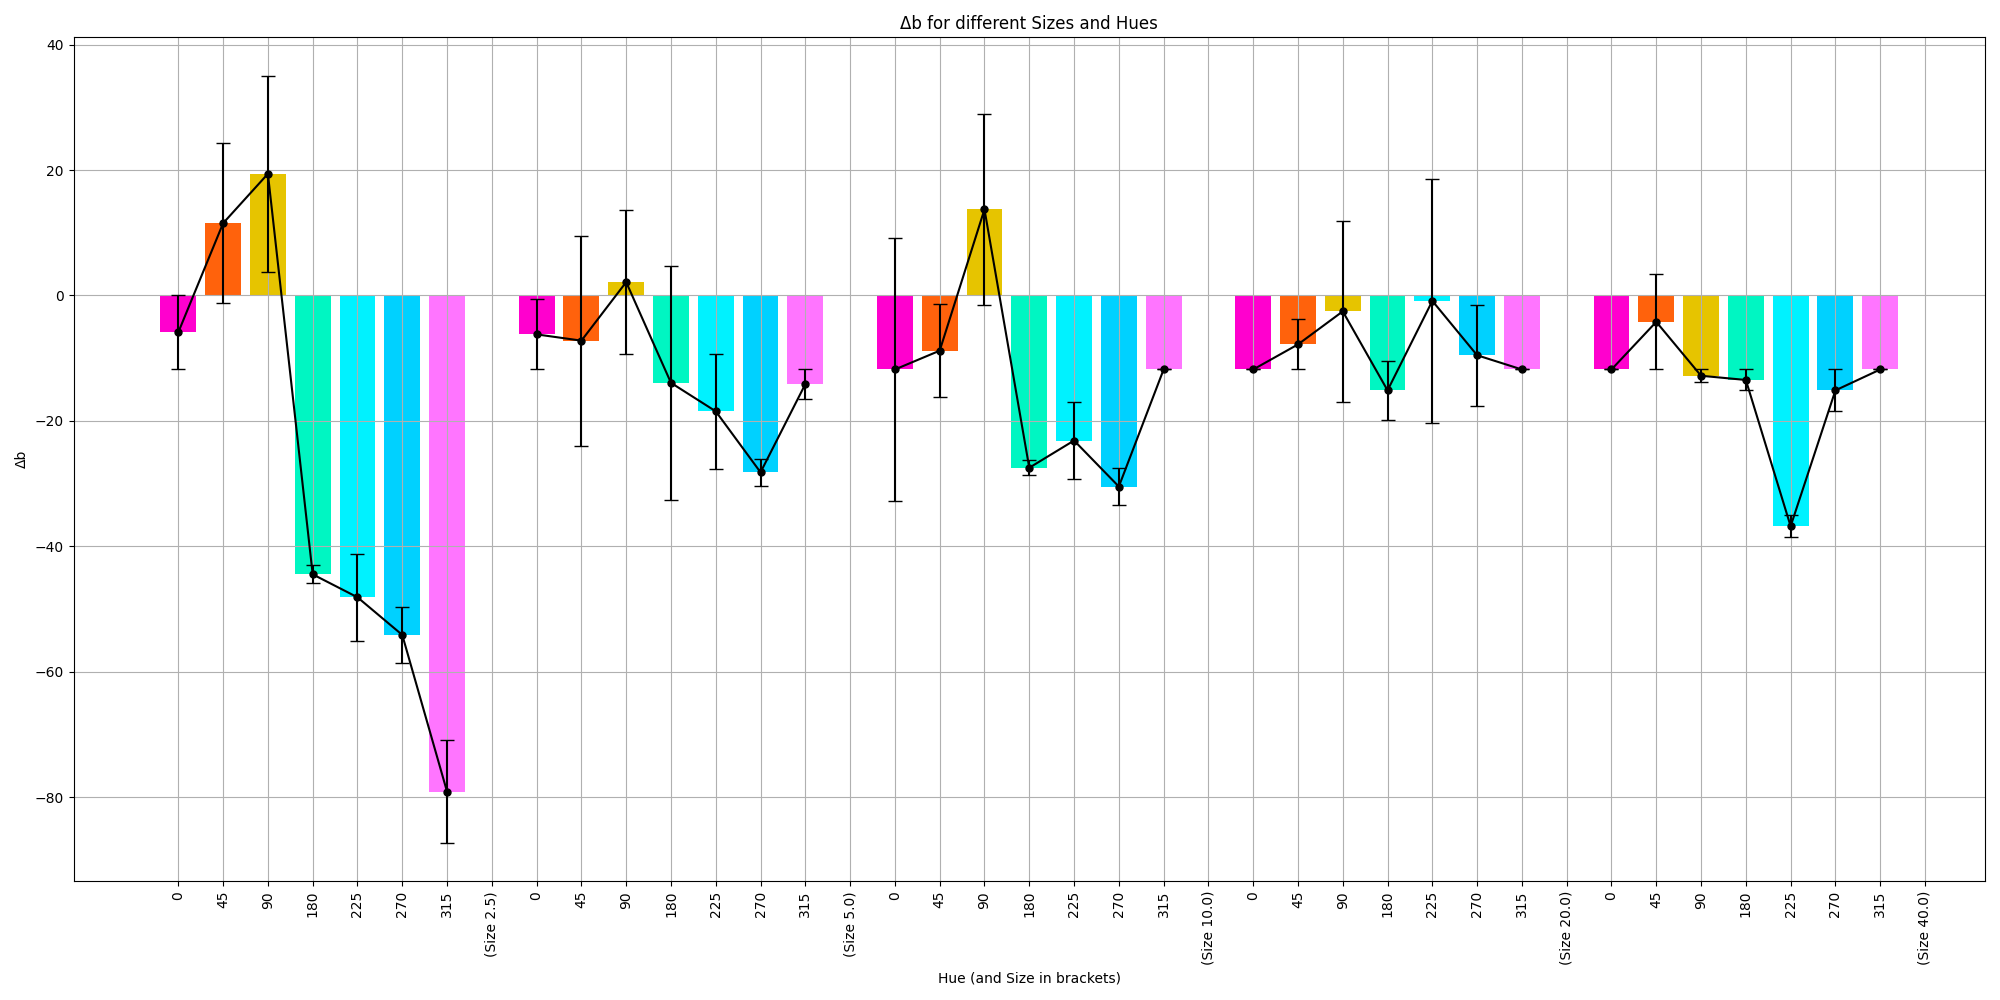
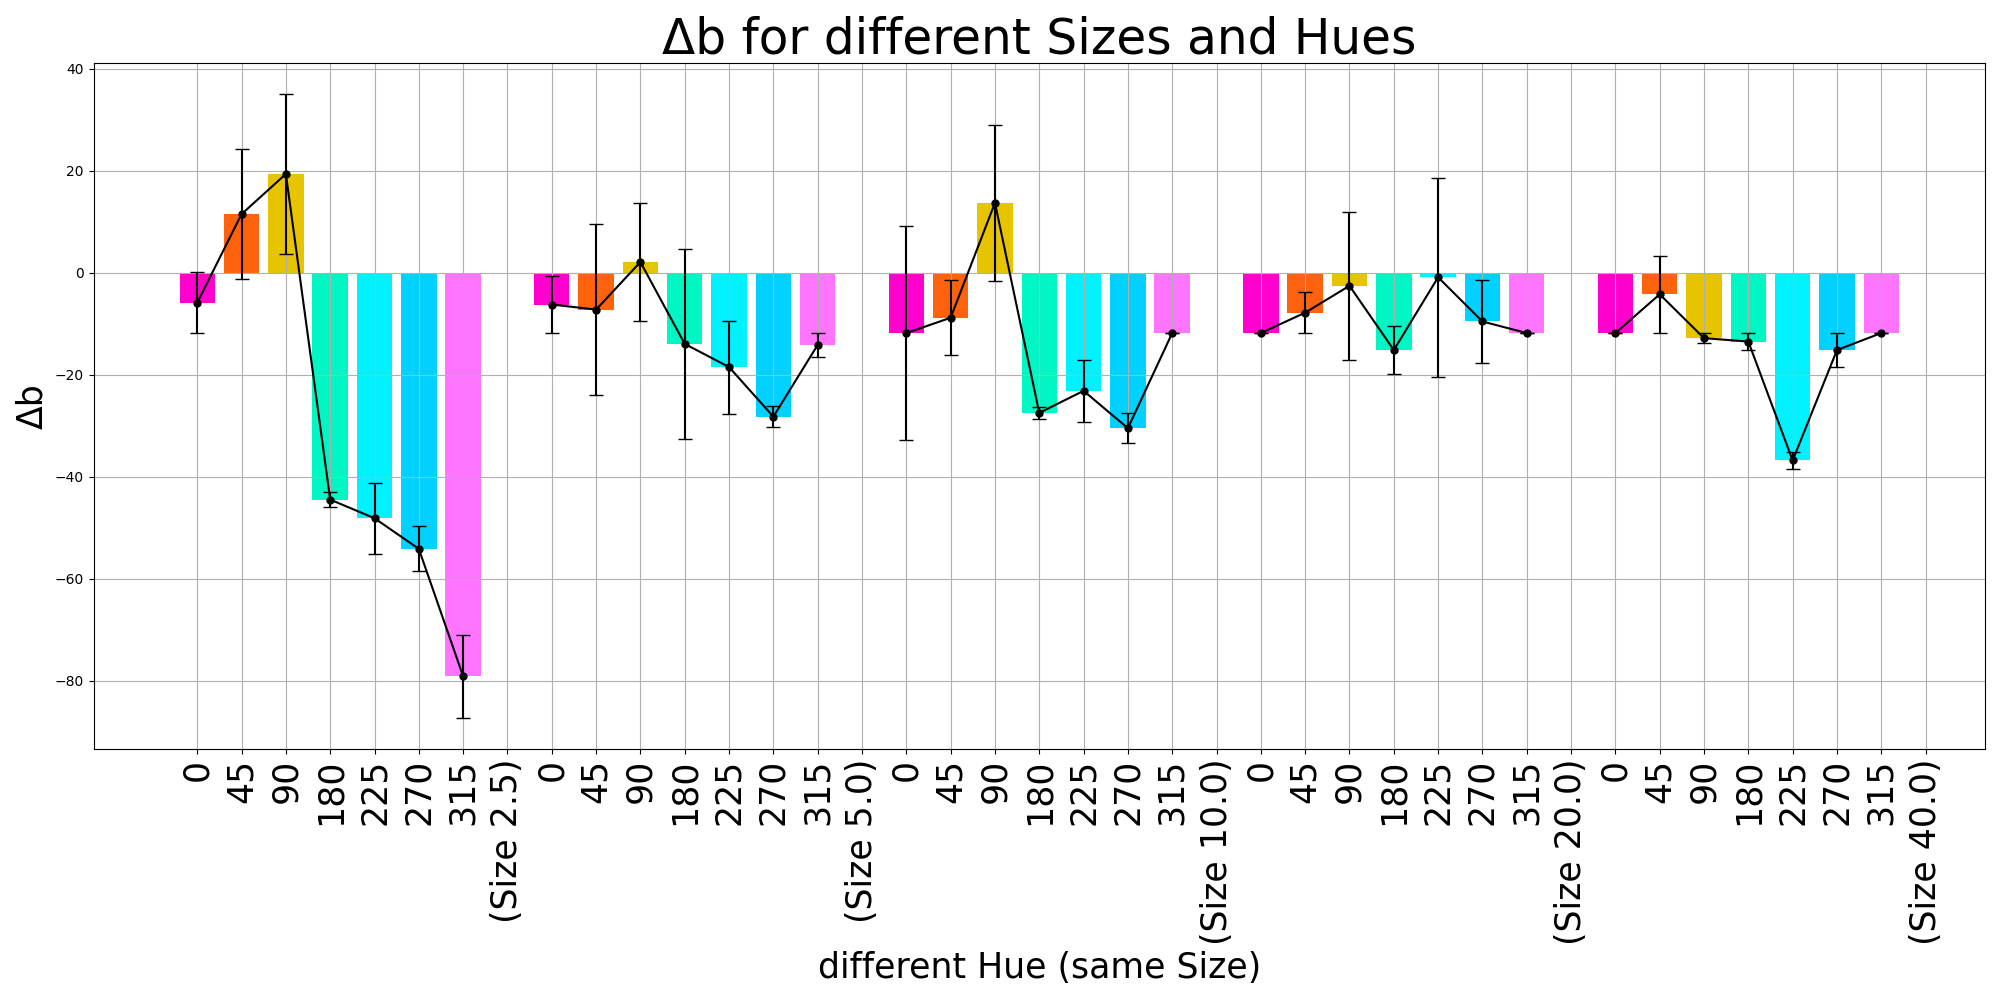
fix

diff --git a/statistics/inducer_unique.py b/statistics/inducer_unique.py
@@ -4,6 +4,7 @@ import pandas as pd
 import matplotlib.pyplot as plt
 from skimage.color import deltaE_cie76
 from adjustText import adjust_text
+import matplotlib.colors as mcolors
 
 # 从CSV文件中读取数据
 df = pd.read_csv('../updated_averaged_data_012.csv')
@@ -25,6 +26,13 @@ unique_inducers = df[['L_inducer', 'a_inducer', 'b_inducer']].drop_duplicates().
 unique_sizes = df['size'].drop_duplicates().values
 os.makedirs('inducer_unique_plots', exist_ok=True)
 
+# 创建一个颜色映射
+cmap = mcolors.LinearSegmentedColormap.from_list("", ["lightcoral", "red"])
+
+# 获取size的最大值和最小值
+min_size = df['size'].min()
+max_size = df['size'].max()
+
 
 # 定义随机偏移量函数
 def add_random_jitter(arr, jitter_strength=0.5):
@@ -38,10 +46,11 @@ for inducer in unique_inducers:
     plt.figure(figsize=(10, 5))
 
     # 绘制label颜色，添加随机偏移量
-    a_label_jittered = add_random_jitter(df['a_label_mean'][mask])
-    b_label_jittered = add_random_jitter(df['b_label_mean'][mask])
-    plt.scatter(a_label_jittered, b_label_jittered, c='black', marker='o', label='Labeled Colors', linewidth=0.5,
-                alpha=0.7)
+    sizes = df['size'][mask]
+    normalized_sizes = (sizes - min_size) / (max_size - min_size)  # 归一化大小
+    colors = cmap(normalized_sizes)  # 将归一化的大小映射到颜色
+    scatter = plt.scatter(add_random_jitter(df['a_label_mean'][mask]), add_random_jitter(df['b_label_mean'][mask]),
+                          c=colors, marker='o', linewidth=0.5, alpha=0.7, label='Label Colors')
 
     # 绘制inducer颜色
     plt.scatter(inducer[1], inducer[2], c=bar_colors_masked, marker='x', s=70, label='Inducer Color')
@@ -51,24 +60,36 @@ for inducer in unique_inducers:
 
     # 添加虚线（直线）将test color和inducer color连起来
     plt.plot([inducer[1], test_color[1]], [inducer[2], test_color[2]], linestyle='--', color='gray')
-
     # 标注size并优化文本标签位置避免重叠
     texts = []
-    for i, (a, b, size) in enumerate(zip(a_label_jittered, b_label_jittered, df['size'][mask])):
+    for i, (a, b, size) in enumerate(zip(df['a_label_mean'][mask], df['b_label_mean'][mask], df['size'][mask])):
         if '.' in str(size):
             label = f'{size:.1f}'
         else:
             label = f'{int(size)}'
-        texts.append(plt.text(a, b, label, fontsize=8, ha='right', va='bottom'))
+        texts.append(
+            plt.text(a, b, label, fontsize=12, ha='right', va='bottom', color='gray', alpha=0.7))  # 设置文本颜色为灰色，透明度为0.7
 
-    adjust_text(texts, arrowprops=dict(arrowstyle='-', color='gray'))
+    # adjust_text(texts=texts,
+    #             force_text=(0.4, 0.4),  # 增加文本标签之间的斥力范围
+    #             force_static=(0.4, 0.4),  # 增加文本标签与静态对象的斥力范围
+    #             force_pull=(0.4, 0.4),  # 增加文本标签向目标位置的吸引力范围
+    #             force_explode=(0.4, 0.4),  # 增加文本标签在避免重叠时的爆炸效应范围
+    #             pull_threshold=4,
+    #             expand=(1.5, 1.5),  # 增加文本标签在避免重叠时的扩展比例
+    #             explode_radius="auto",  # 自动计算爆炸半径
+    #             ensure_inside_axes=True,  # 确保文本标签始终在坐标轴内部
+    #             expand_axes=False,  # 不扩展坐标轴以容纳所有文本标签
+    #             min_arrow_len=5,  # 箭头的最小长度
+    #             arrowprops=dict(arrowstyle='-', color='gray', lw=1.5))  # 箭头线宽增加到1.5
 
-    plt.xlabel("a")
-    plt.ylabel("b")
+    plt.xlabel("a", fontsize=18)  # 字体大小调到18
+    plt.ylabel("b", fontsize=18)  # 字体大小调到18
     plt.axis('equal')  # 确保横纵坐标刻度宽度相同
     inducer_int = tuple(int(x) for x in inducer)
-    plt.title(f"For inducer {inducer_int}(or {int(hue_inducer[mask][0])}°) with different sizes")
-    plt.legend()
+    plt.title(f"For inducer {inducer_int}(or {int(hue_inducer[mask][0])}°) with different sizes",
+              fontsize=18)  # 标题字体大小调到18
+    plt.legend(fontsize=16)  # 图例字体大小调到16
 
     # 保留网格线
     plt.grid(True)

diff --git a/statistics/size_unique.py b/statistics/size_unique.py
@@ -36,20 +36,21 @@ for size in unique_sizes:
 
     # 在inducer颜色旁边标记hue_inducer值
     for i, hue in enumerate(hue_inducer[mask]):
-        plt.annotate(f'{int(hue)}°', (df['a_inducer'][mask].values[i], df['b_inducer'][mask].values[i]), textcoords="offset points", xytext=(0,10), ha='center', fontsize=8, color='black')
+        plt.annotate(f'{int(hue)}°', (df['a_inducer'][mask].values[i], df['b_inducer'][mask].values[i]),
+                     textcoords="offset points", xytext=(0, 10), ha='center', fontsize=10, color='black')
 
     # 绘制label颜色，并用bar_color标记，使用偏移区分重合点
     for i in range(len(df[mask])):
         offset = i * 0.1  # 添加偏移
         plt.scatter(df['a_label_mean'][mask].values[i] + offset, df['b_label_mean'][mask].values[i] + offset,
-                    facecolors='none', edgecolors=[bar_colors[mask][i]], marker='o', s=15, linewidth=0.25)
+                    facecolors='none', edgecolors=[bar_colors[mask][i]], marker='o', s=15, linewidth=0.5)
         plt.scatter(df['a_label_mean'][mask].values[i] + offset, df['b_label_mean'][mask].values[i] + offset,
-                    c=[bar_colors[mask][i]], marker='o', s=1)
+                    c=[bar_colors[mask][i]], marker='o', s=2)
 
         # 将label color与对应的inducer color连接起来，改为虚线，调大间隔
         plt.plot([df['a_inducer'][mask].values[i], df['a_label_mean'][mask].values[i] + offset],
                  [df['b_inducer'][mask].values[i], df['b_label_mean'][mask].values[i] + offset],
-                 color=bar_colors[mask][i], linestyle=(0, (5, 5)), linewidth=0.5)
+                 color=bar_colors[mask][i], linestyle=(0, (5, 5)), linewidth=1.0)
 
     # 绘制test_color，并缩小点的大小
     plt.scatter(test_color[1], test_color[2], color=test_rgb, marker='o', label='Test Color 135°', s=15)
@@ -59,7 +60,7 @@ for size in unique_sizes:
 
     # 创建图例元素
     legend_elements = [
-        Line2D([0], [0], marker='o', color='w', label='Test Color', markerfacecolor=test_rgb, markersize=5),
+        Line2D([0], [0], marker='o', color='w', label='Test Color', markerfacecolor=test_rgb, markersize=7),
     ]
 
     # 根据hue_inducer添加Inducer Colors和Label Colors的图例
@@ -68,20 +69,21 @@ for size in unique_sizes:
         hue_mask = (hue_inducer == hue)
         legend_elements.append(Line2D([0], [0], marker='x', color='w', label=f'Inducer Color {int(hue)}°',
                                       markerfacecolor=bar_colors[hue_mask][0], markeredgecolor=bar_colors[hue_mask][0],
-                                      markersize=5))
+                                      markersize=7))
         legend_elements.append(
             Line2D([0], [0], marker='o', color='w', label=f'Label Color {int(hue)}°', markerfacecolor='none',
-                   markeredgecolor=bar_colors[hue_mask][0], markersize=5))
+                   markeredgecolor=bar_colors[hue_mask][0], markersize=7))
 
     # 添加连接线的图例
-    legend_elements.append(Line2D([0], [0], linestyle=(0, (5, 5)), color='k', label='Label to Inducer Color', linewidth=0.5))
+    legend_elements.append(
+        Line2D([0], [0], linestyle=(0, (5, 5)), color='k', label='Label to Inducer Color', linewidth=1.0))
 
     # 显示图例，并放置在图外
-    plt.legend(handles=legend_elements, loc='center left', bbox_to_anchor=(1, 0.5))
+    plt.legend(handles=legend_elements, loc='center left', bbox_to_anchor=(1, 0.5), fontsize=12)
 
-    plt.xlabel("a")
-    plt.ylabel("b")
-    plt.title(f"For size {size} with different inducers")
+    plt.xlabel("a", fontsize=14)
+    plt.ylabel("b", fontsize=14)
+    plt.title(f"For size {size} with different inducers", fontsize=14)
     plt.grid(True)
     plt.tight_layout()
     plt.savefig(f'size_unique_plots/size_{size}.png', bbox_inches='tight')

diff --git a/statistics/histogram_delta_lab_e_all.py b/statistics/histogram_delta_lab_e_all.py
@@ -80,10 +80,10 @@ def plot_labels(label_column, sem_column, y_label, file_name, test_value=None):
     if test_value is not None:
         plt.axhline(y=test_value, color='grey', linestyle='--', linewidth=2)
 
-    plt.xticks(ticks=np.arange(1, len(x_ticks) + 1), labels=x_ticks, rotation=90)
-    plt.xlabel("Size (and Hue in brackets)")
-    plt.ylabel(y_label)
-    plt.title(f"{y_label} for different Hues and Sizes")
+    plt.xticks(ticks=np.arange(1, len(x_ticks) + 1), labels=x_ticks, rotation=90, fontsize=25)
+    plt.xlabel("different Size (same Hue)", fontsize=25)
+    plt.ylabel(y_label, fontsize=25)
+    plt.title(f"{y_label} for different Hues and Sizes", fontsize=35)
     plt.grid(True)
     plt.tight_layout()
     plt.savefig(f'delta_inducer/{file_name}')
@@ -124,10 +124,10 @@ def plot_labels_by_size(label_column, sem_column, y_label, file_name, test_value
     if test_value is not None:
         plt.axhline(y=test_value, color='grey', linestyle='--', linewidth=2)
 
-    plt.xticks(ticks=np.arange(1, len(x_ticks) + 1), labels=x_ticks, rotation=90)
-    plt.xlabel("Hue (and Size in brackets)")
-    plt.ylabel(y_label)
-    plt.title(f"{y_label} for different Sizes and Hues")
+    plt.xticks(ticks=np.arange(1, len(x_ticks) + 1), labels=x_ticks, rotation=90, fontsize=25)
+    plt.xlabel("different Hue (same Size)", fontsize=25)
+    plt.ylabel(y_label, fontsize=25)
+    plt.title(f"{y_label} for different Sizes and Hues", fontsize=35)
     plt.grid(True)
     plt.tight_layout()
     plt.savefig(f'delta_size/{file_name}')
@@ -154,6 +154,7 @@ plot_labels_by_size('ΔE', 'ΔE_sem', 'ΔE', 'ΔE_vs_diff_size.png')
 
 print("Plots generated successfully.")
 
+
 # # 进行回归分析
 #
 # # 添加常量列用于截距
@@ -176,24 +177,24 @@ print("Plots generated successfully.")
 #     plt.title('linear regression')
 #     plt.legend()
 #     plt.show()
-df['intercept'] = 1.0
+# df['intercept'] = 1.0
 # 添加size的平方项
 # df['size_squared'] = df['size'] ** 2
 
 # 定义新的自变量
 # independent_vars_poly = ['intercept', 'size', 'size_squared', 'L_inducer', 'a_inducer', 'b_inducer']
-independent_vars_poly = ['intercept', 'size', 'L_inducer', 'a_inducer', 'b_inducer']
-dependent_vars = ['L_label_mean', 'a_label_mean', 'b_label_mean', 'ΔE']
-# 进行多项式回归
-for dep_var in dependent_vars:
-    model_poly = sm.OLS(df[dep_var], df[independent_vars_poly]).fit()
-    print(f'\n多项式回归结果 ({dep_var}):')
-    print(model_poly.summary())
-    # 绘制散点图和拟合曲线
-    # plt.scatter(df['size'], df[dep_var], label='real')
-    # plt.plot(df['size'], model_poly.predict(), color='red', label='fit (poly)')
-    # plt.xlabel('size')
-    # plt.ylabel(dep_var)
-    # plt.title('polynomial regression')
-    # plt.legend()
-    # plt.show()
+# independent_vars_poly = ['intercept', 'size', 'L_inducer', 'a_inducer', 'b_inducer']
+# dependent_vars = ['L_label_mean', 'a_label_mean', 'b_label_mean', 'ΔE']
+# # 进行多项式回归
+# for dep_var in dependent_vars:
+#     model_poly = sm.OLS(df[dep_var], df[independent_vars_poly]).fit()
+#     print(f'\n多项式回归结果 ({dep_var}):')
+#     print(model_poly.summary())
+#     绘制散点图和拟合曲线
+#     plt.scatter(df['size'], df[dep_var], label='real')
+#     plt.plot(df['size'], model_poly.predict(), color='red', label='fit (poly)')
+#     plt.xlabel('size')
+#     plt.ylabel(dep_var)
+#     plt.title('polynomial regression')
+#     plt.legend()
+#     plt.show()

diff --git a/statistics/histogram_lab_inducer.py b/statistics/histogram_lab_inducer.py
@@ -57,10 +57,10 @@ def plot_labels(label_column, sem_column, y_label, file_name, test_value):
     # 绘制test_color对应的虚线
     plt.axhline(y=test_value, color='grey', linestyle='--', linewidth=2)
 
-    plt.xticks(ticks=np.arange(1, len(x_ticks) + 1), labels=x_ticks, rotation=90)
-    plt.xlabel("Size (and Hue in brackets)")
-    plt.ylabel(y_label)
-    plt.title(f"{y_label} for different Hues and Sizes")
+    plt.xticks(ticks=np.arange(1, len(x_ticks) + 1), labels=x_ticks, rotation=90, fontsize=25)
+    plt.xlabel("Size (and Hue in brackets)", fontsize=25)
+    plt.ylabel(y_label, fontsize=25)
+    plt.title(f"{y_label} for different Hues and Sizes", fontsize=35)
     plt.grid(True)
     plt.tight_layout()
     plt.savefig(f'inducer_unique_plots/{file_name}')
@@ -83,29 +83,29 @@ plot_labels('b_label_mean', 'b_label_sem', 'b_label_mean', 'b_label_vs_diff_hue.
 # 添加常量列用于截距
 df['intercept'] = 1.0
 
-# 定义自变量和因变量
-independent_vars = ['intercept', 'size', 'L_inducer', 'a_inducer', 'b_inducer']
-dependent_vars = ['L_label_mean', 'a_label_mean', 'b_label_mean']
-
-# 进行回归分析并输出结果
-for dep_var in dependent_vars:
-    model = sm.OLS(df[dep_var], df[independent_vars]).fit()
-    print(f'\n回归分析结果 ({dep_var}):')
-    print(model.summary())
-
-    # 创建散点图
-    plt.figure(figsize=(8, 6))
-    plt.scatter(df['size'], df[dep_var], color='blue', label='Data')
-
-    # 创建拟合线
-    predicted_values = model.predict(df[independent_vars])
-    plt.plot(df['size'], predicted_values, color='red', label='Fit')
-
-    # 添加图例和标题
-    plt.legend()
-    plt.title(f'Regression Analysis ({dep_var})')
-    plt.xlabel('Size')
-    plt.ylabel(dep_var)
-
-    # 显示图形
-    plt.show()
+# # 定义自变量和因变量
+# independent_vars = ['intercept', 'size', 'L_inducer', 'a_inducer', 'b_inducer']
+# dependent_vars = ['L_label_mean', 'a_label_mean', 'b_label_mean']
+#
+# # 进行回归分析并输出结果
+# for dep_var in dependent_vars:
+#     model = sm.OLS(df[dep_var], df[independent_vars]).fit()
+#     print(f'\n回归分析结果 ({dep_var}):')
+#     print(model.summary())
+#
+#     # 创建散点图
+#     plt.figure(figsize=(8, 6))
+#     plt.scatter(df['size'], df[dep_var], color='blue', label='Data')
+#
+#     # 创建拟合线
+#     predicted_values = model.predict(df[independent_vars])
+#     plt.plot(df['size'], predicted_values, color='red', label='Fit')
+#
+#     # 添加图例和标题
+#     plt.legend()
+#     plt.title(f'Regression Analysis ({dep_var})')
+#     plt.xlabel('Size')
+#     plt.ylabel(dep_var)
+#
+#     # 显示图形
+#     plt.show()
